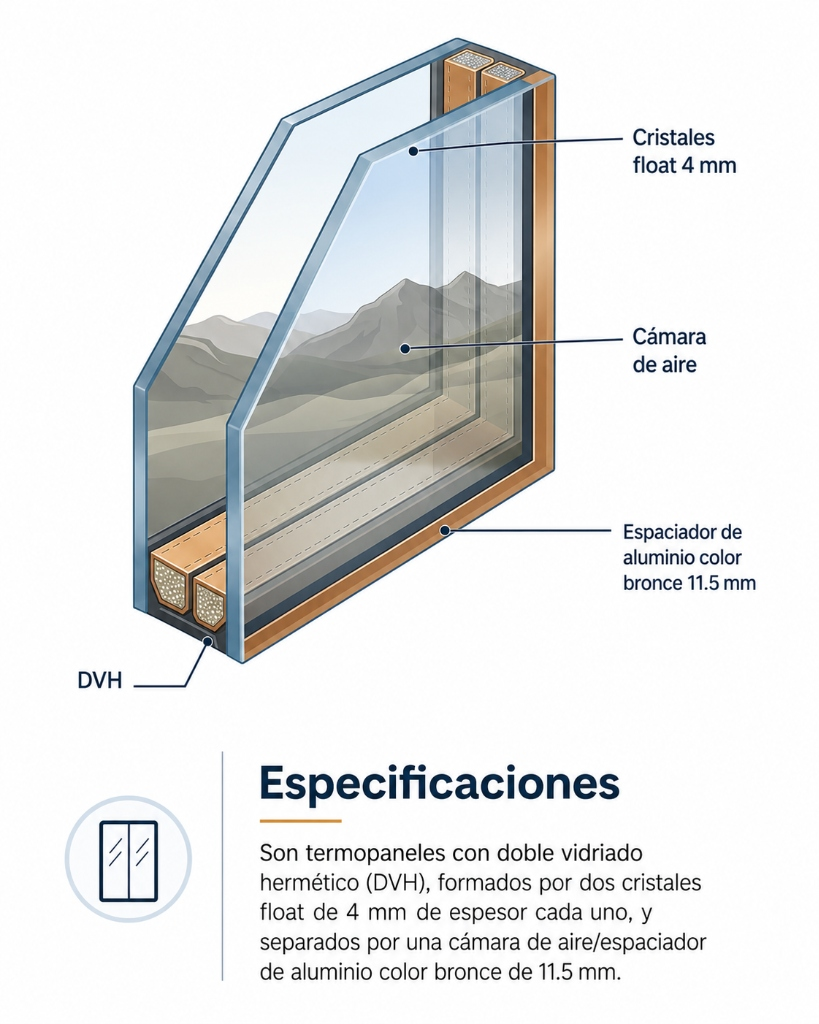
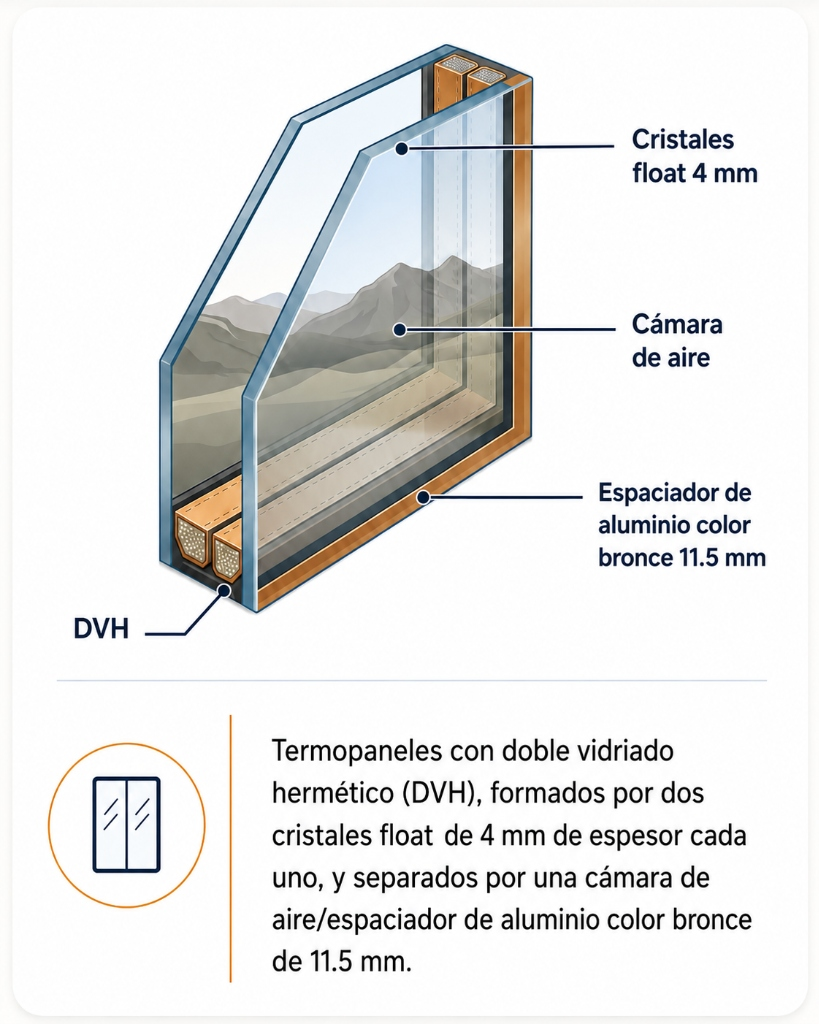
Actualizar imagen de especificaciones termopanel, centrar caja de especificaciones, remover sección de medios de pago en info, y destacar pago en paso 3

diff --git a/index.html b/index.html
@@ -168,21 +168,13 @@
                 <div class="how-to-buy-card">
                     <div class="step-number">3</div>
                     <h3>Pago y Retiro</h3>
-                    <p>Coordinaremos el día y hora para el retiro en nuestra bodega en El Monte. El pago se realiza mediante transferencia electrónica o efectivo al retirar.</p>
+                    <p>Coordinaremos el día y hora para el retiro en nuestra bodega en El Monte. El pago se realiza mediante 📲 <strong>transferencia electrónica</strong> o 💵 <strong>efectivo</strong> al retirar.</p>
                 </div>
             </div>
             
             <div class="how-to-buy-info-box">
-                <div class="info-box-column">
-                    <h4>💳 Medios de Pago Aceptados</h4>
-                    <p>Para tu comodidad, aceptamos los siguientes métodos al momento de retirar o coordinar:</p>
-                    <ul>
-                        <li>Transferencia electrónica bancaria inmediata.</li>
-                        <li>Pago en efectivo en bodega.</li>
-                    </ul>
-                </div>
                 <div class="info-box-column specs-box-column">
-                    <h4>🔍 Especificaciones del Termopanel</h4>
+                    <h4>🔍 Especificaciones Técnicas del Termopanel</h4>
                     <img src="informacion-termopanel.jpg" alt="Especificaciones técnicas de termopanel" class="specs-info-img">
                 </div>
             </div>

diff --git a/index.css b/index.css
@@ -1757,38 +1757,38 @@ footer {
     border-radius: 20px;
     padding: 40px;
     box-shadow: 0 10px 30px rgba(0,0,0,0.01);
-    max-width: 950px;
+    max-width: 650px;
     margin: 0 auto;
-    display: grid;
-    grid-template-columns: 1fr;
-    gap: 30px;
-}
-
-@media (min-width: 768px) {
-    .how-to-buy-info-box {
-        grid-template-columns: 1.1fr 1fr;
-        align-items: stretch;
-    }
 }
 
 .specs-box-column {
     background: #ffffff;
     border: 1px solid rgba(0, 0, 0, 0.05);
     border-radius: 16px;
-    padding: 24px;
+    padding: 30px;
     box-shadow: var(--shadow-sm);
     display: flex;
     flex-direction: column;
+    align-items: center;
     justify-content: center;
+    transition: var(--transition-smooth);
+}
+
+.specs-box-column:hover {
+    transform: translateY(-2px);
+    box-shadow: var(--shadow-md);
 }
 
 .specs-box-column h4 {
-    margin-bottom: 12px !important;
+    text-align: center;
+    margin-bottom: 20px !important;
+    font-size: 1.2rem;
+    color: var(--color-text-primary);
 }
 
 .specs-info-img {
     width: 100%;
-    max-width: 320px;
+    max-width: 420px;
     height: auto;
     border-radius: 8px;
     display: block;
